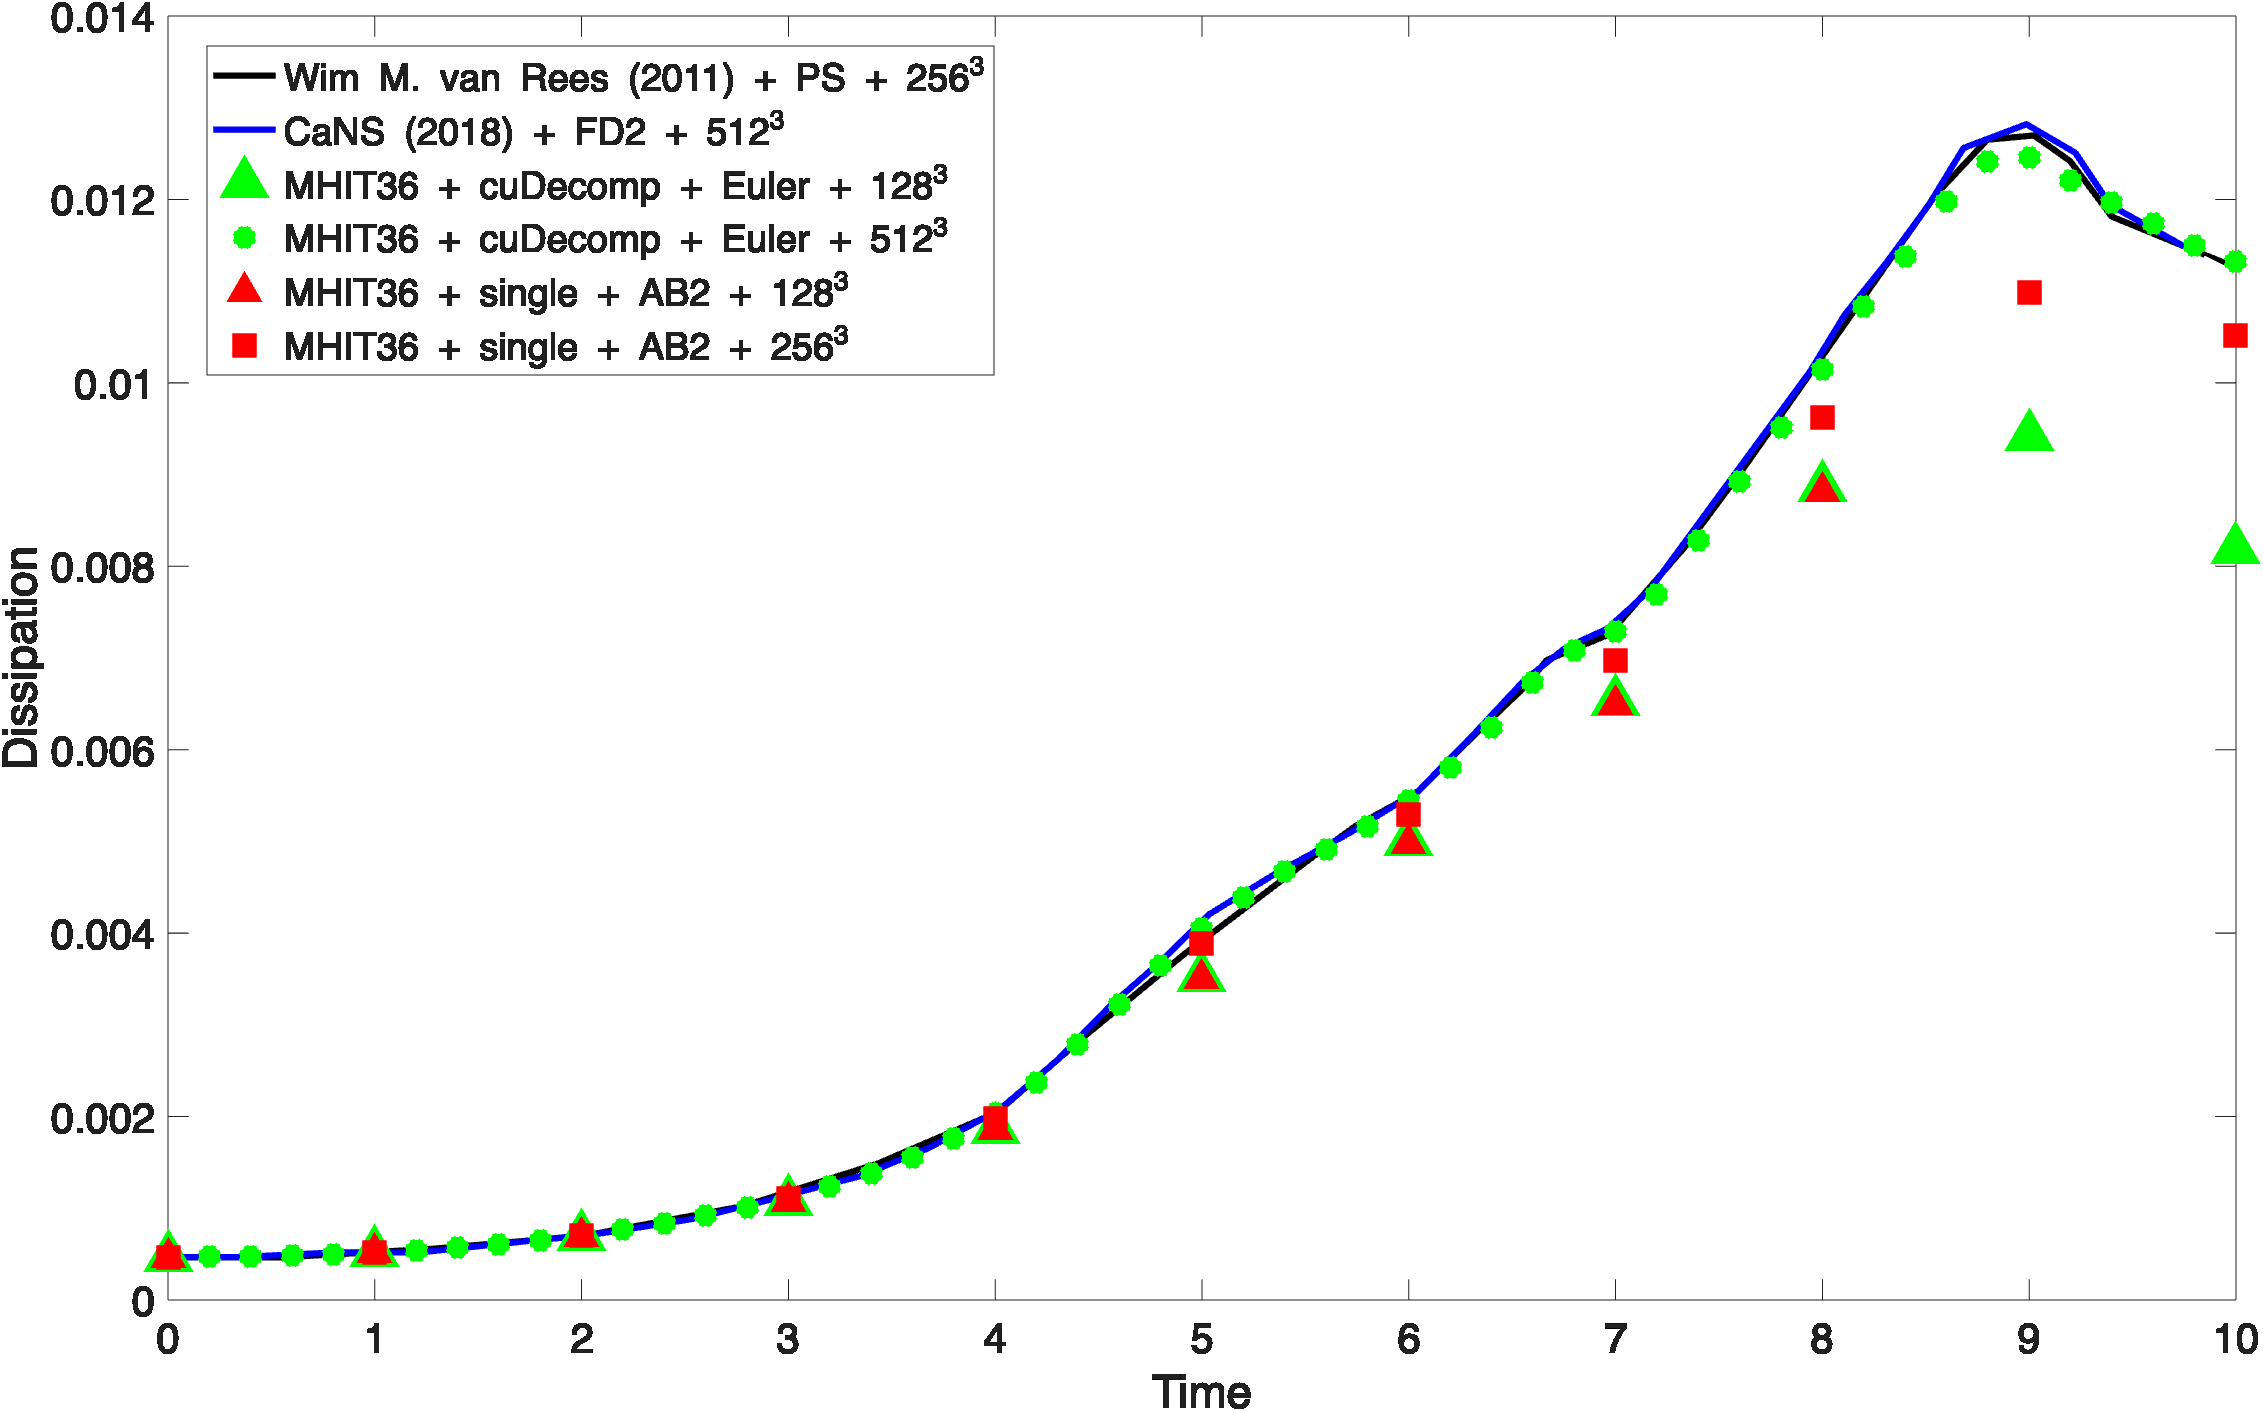
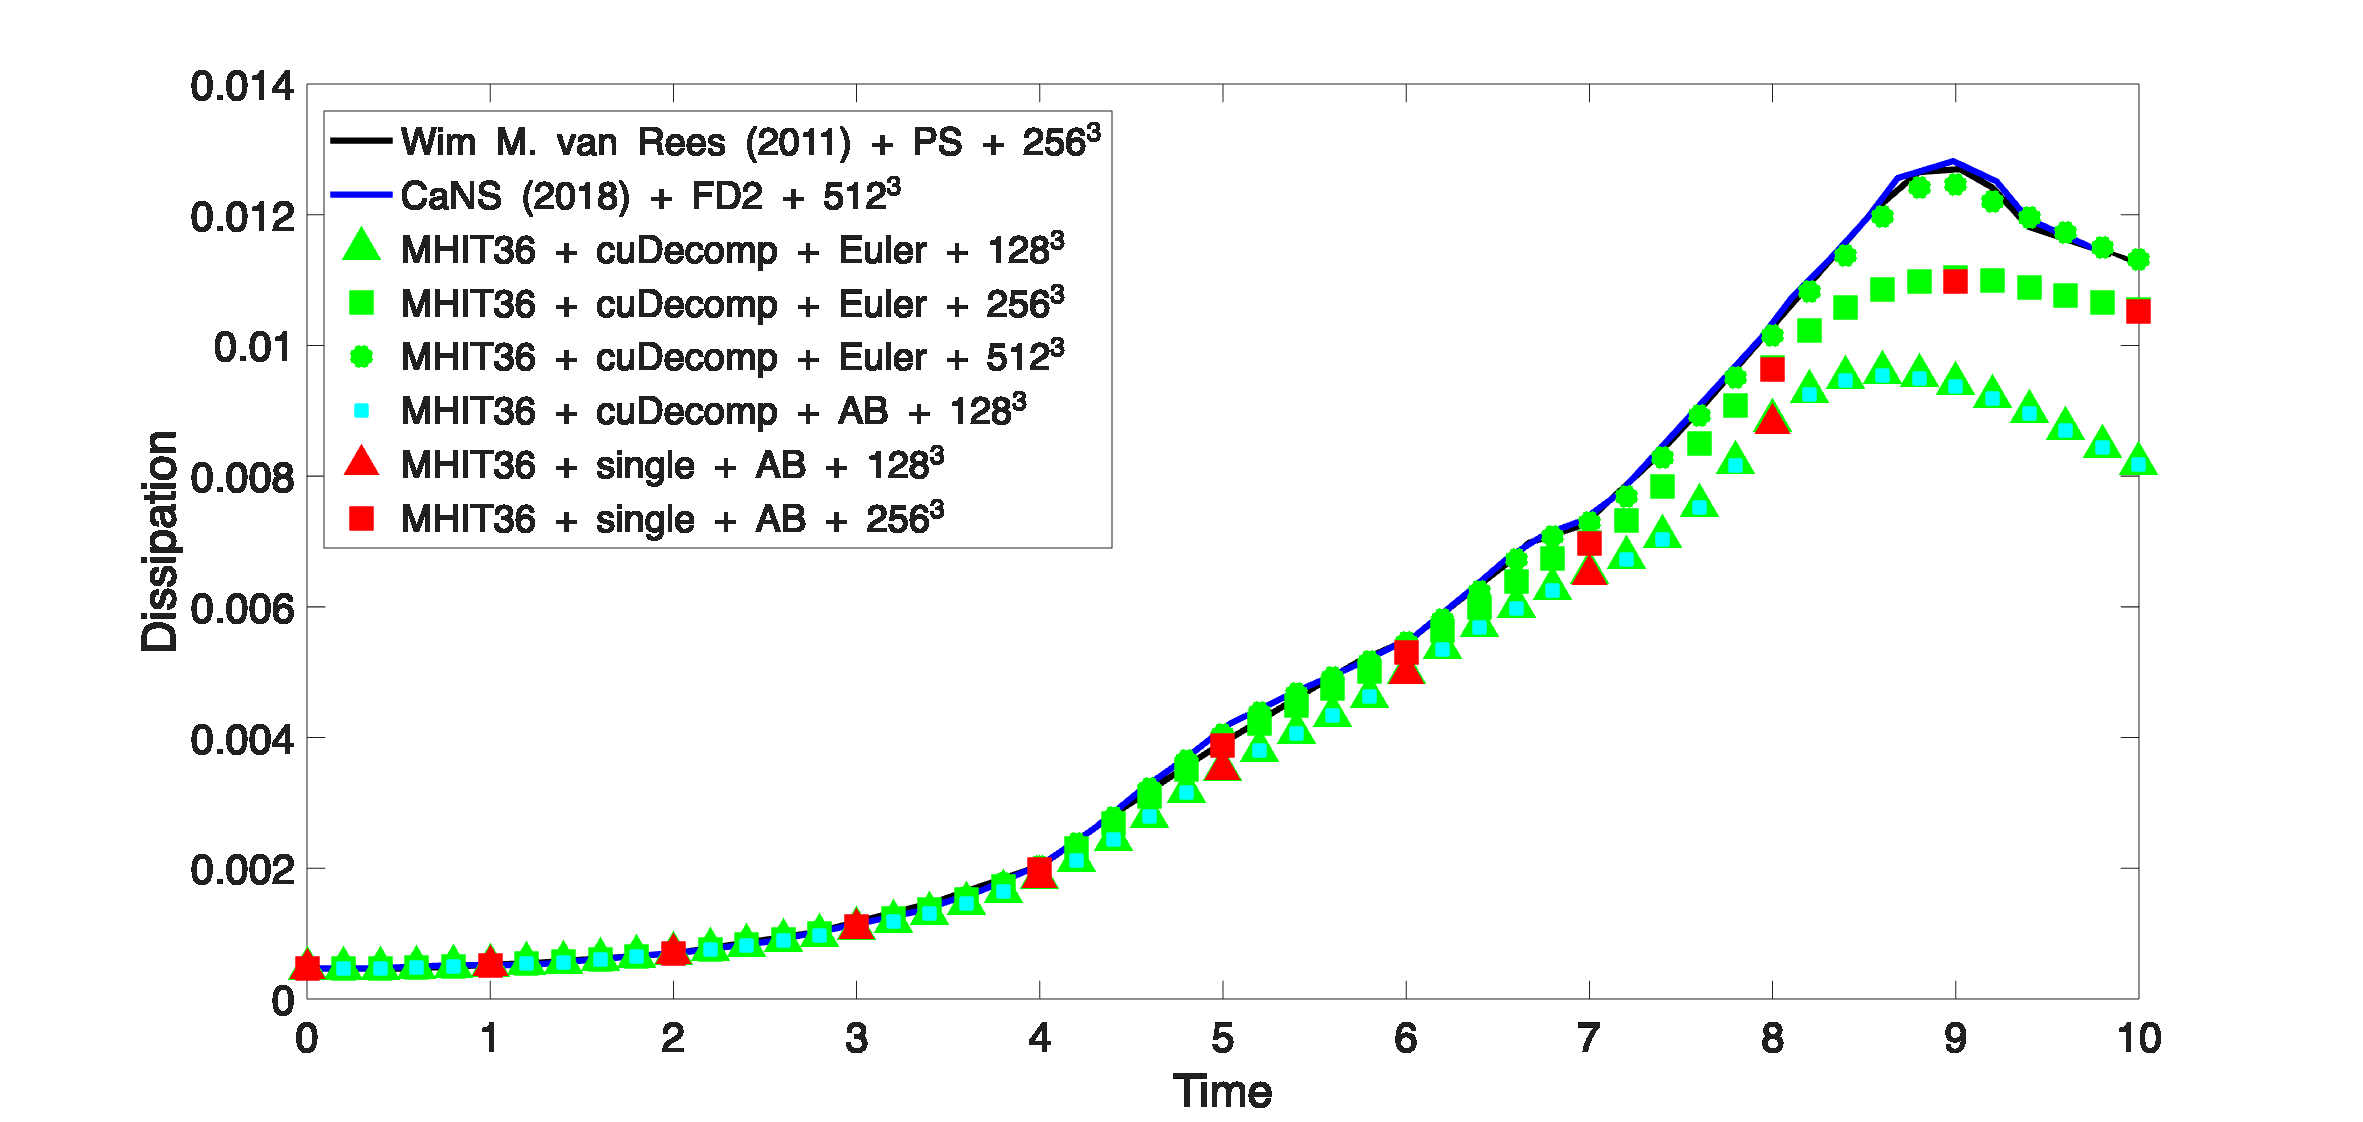
ab2

diff --git a/README.md b/README.md
@@ -28,7 +28,7 @@ Strange behaviof of the convective terms, introduced internal update if pr=1 or 
 - 22/02/25: Add read input in parallel (to be tested)
 - 24/02/25: Some issue with 25.1; revert back to 24.3 (works fine on both Leonardo and Local)
 - 25/02/25: Improvement of Poisson solver (removed one block when copy in the rhsp); performance looks promising. Stop working on the code; perform full validation and scaling of this version; consider moving from EE to AB2; Leo in manteinance, wait tomorrow for some tests.
-- 26/02/25: Everyhting looks good; testing using the WMR benchmark. cuDecomp and single GPU version match very well; AB2 vs Euler minor differences. Added post-processing folder to compute dissipation. TG test seems very good, agreement with CaNS and other results.
+- 26/02/25: Everyhting looks good; testing using the WMR benchmark. cuDecomp and single GPU version match very well; AB2 vs Euler minor differences. Added post-processing folder to compute dissipation. TG test seems very good, agreement with CaNS and other results. Time integration modified to AB2, test looks good.
 
 # Multi-GPU version status
 
